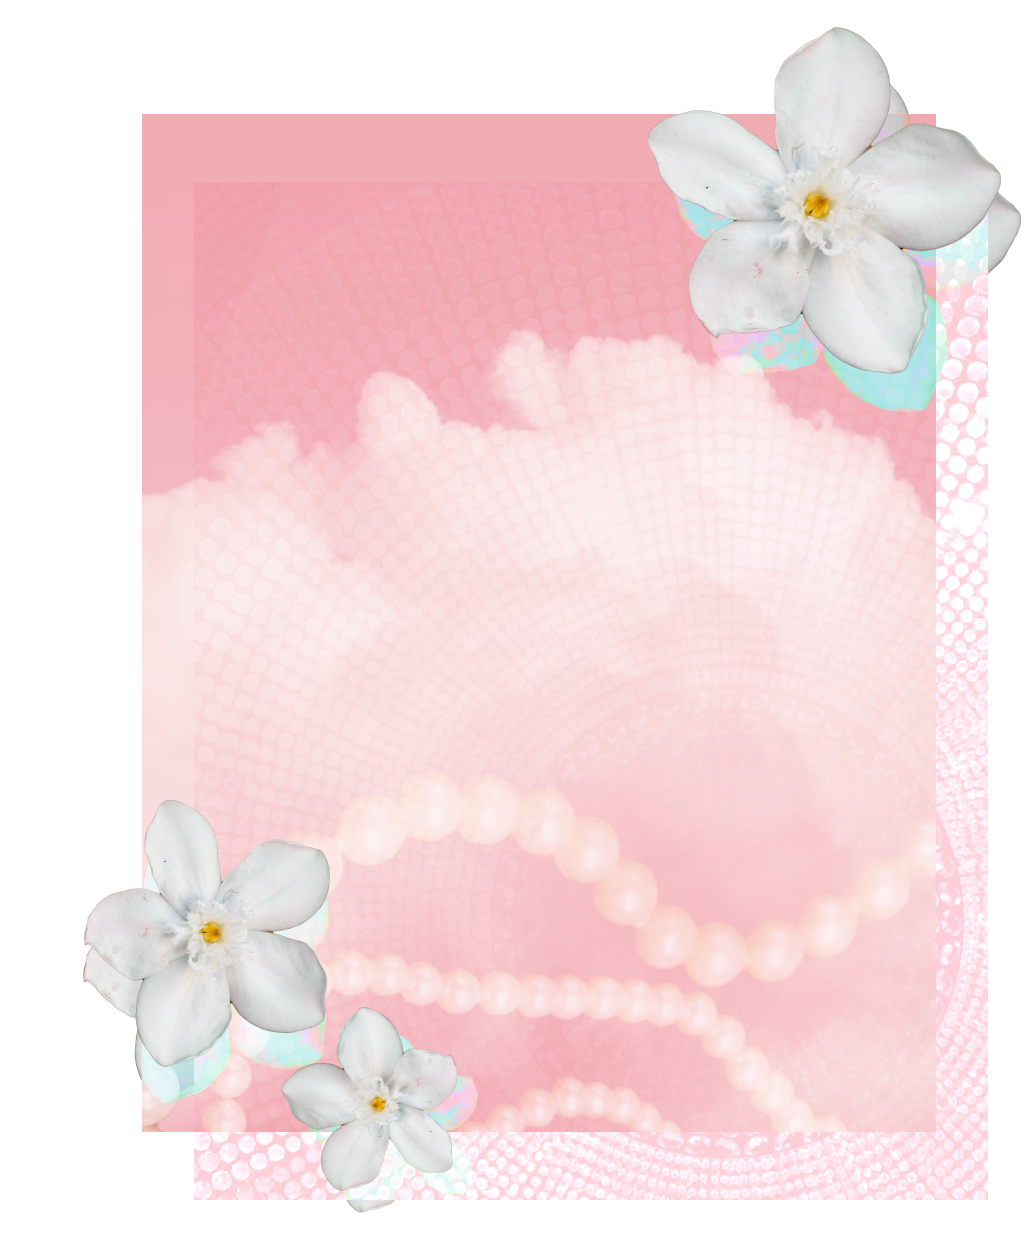
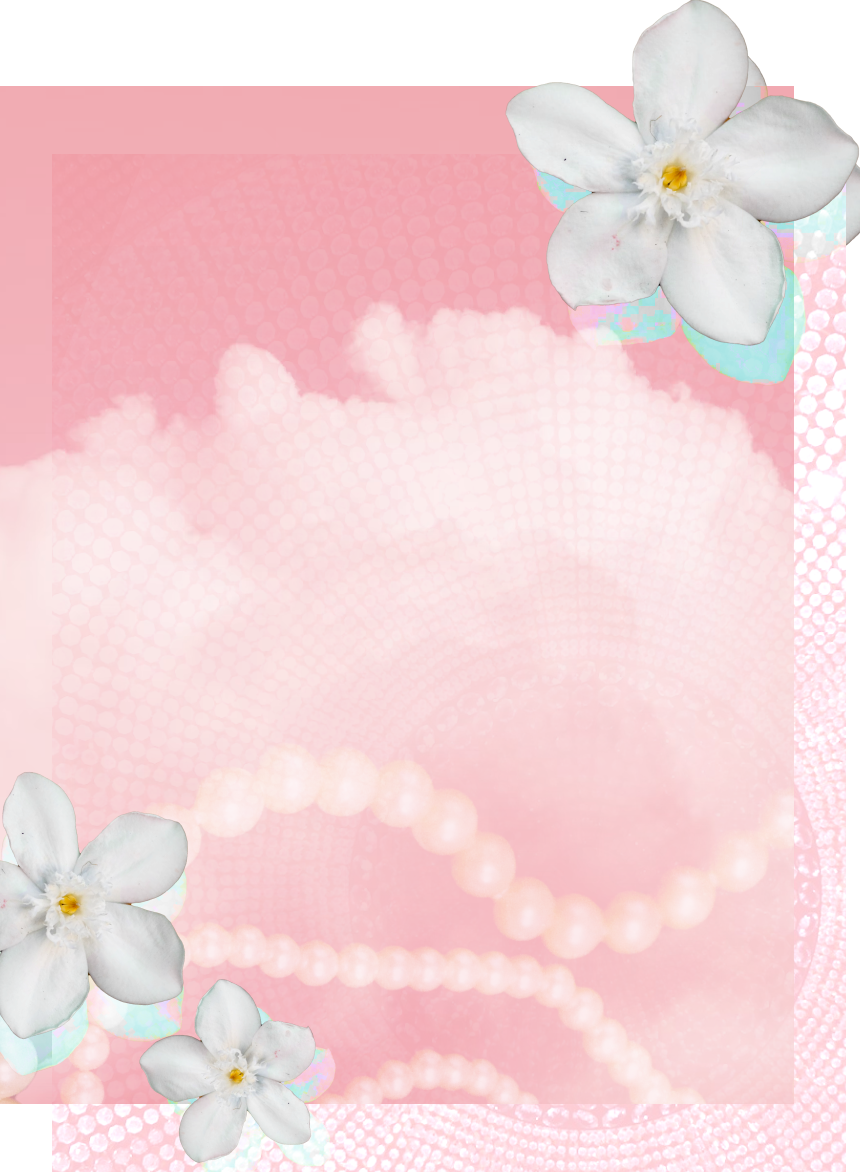
fixing positioning

diff --git a/_site/assets/css/writing-portfolio.css b/_site/assets/css/writing-portfolio.css
@@ -261,19 +261,15 @@ footer {
       left: 10%;
       bottom: 10%;
       text-shadow: 1px 1px 1px #000; }
-  .writing-grid#parts.desc-first {
-    grid-template-columns: 1fr 1% 1fr; }
   .writing-grid#parts img {
-    width: 520px;
-    height: 633px; }
+    width: 430px;
+    height: 586px; }
   .writing-grid#parts .cover-col p {
     width: 293px;
     left: 25%;
     bottom: 44%; }
   .writing-grid#parts .title-pub {
-    width: 400px;
-    left: 2rem;
-    z-index: 1; }
+    width: 400px; }
 
 @media only screen and (max-width: 800px) {
   .content {
@@ -329,12 +325,9 @@ footer {
       line-height: 156%;
       width: 90%; }
   .writing-grid#parts .title-pub {
-    left: 0; }
+    left: 0 !important; }
   .writing-grid#parts .cover-col p {
-    left: 9%; }
-  .writing-grid#parts img {
-    left: -70px;
-    position: relative; } }
+    left: 9%; } }
 /* inherited taste */
 .content#taste {
   overflow-y: hidden;

diff --git a/assets/css/writing-portfolio.scss b/assets/css/writing-portfolio.scss
@@ -361,11 +361,10 @@ footer {
   }
   &#parts {
     &.desc-first {
-      grid-template-columns: 1fr 1% 1fr;
     }
     img {
-      width:520px;
-      height:633px;
+      width:430px;
+      height:586px;
     }
     .cover-col {
       p {
@@ -376,8 +375,6 @@ footer {
     }
     .title-pub {
       width:400px;
-      left:2rem;
-      z-index:1;
     }
   }
 }
@@ -454,18 +451,14 @@ footer {
       }
     }
 
-  &#parts {
-    .title-pub {
-      left:0;
+    &#parts {
+      .title-pub {
+        left:0 !important;
+      }
+      .cover-col p {
+        left: 9%;
+      }
     }
-    .cover-col p {
-      left: 9%;
-    }
-    img {
-    left: -70px;
-      position: relative;
-    }
-  }
   }
 }
 
